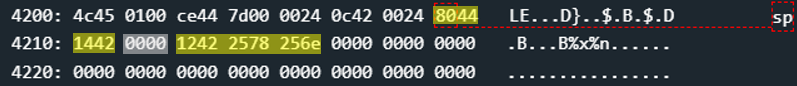
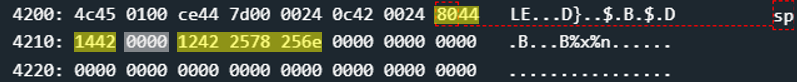
solution Addis Ababa stage

diff --git a/11 - Addis Ababa/README.md b/11 - Addis Ababa/README.md
@@ -87,8 +87,13 @@ The parameters injected into the stack to exploit printf:
 * `0000` is parameter of `%x`
 * `1242` is parameter of `%n` - the exploit is here.
 
+The stack immediately after printf:
 
+<img src="./11.4.png"></img>
 
+* *(0x4212) != 0x0
+
+Bingo.
 
 ## The cracking input (as bytes)
 ```
